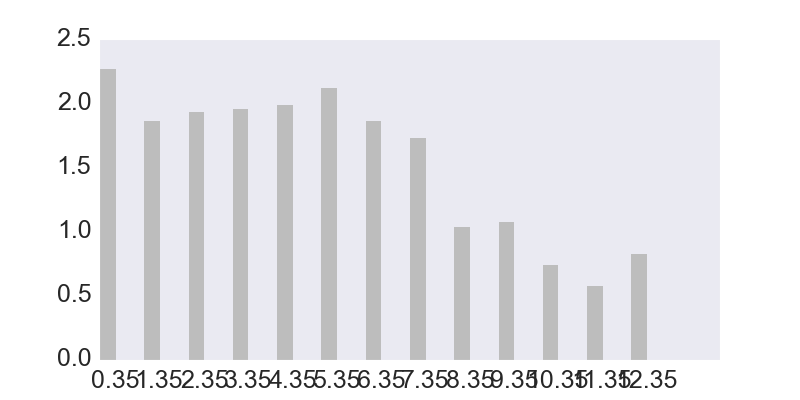
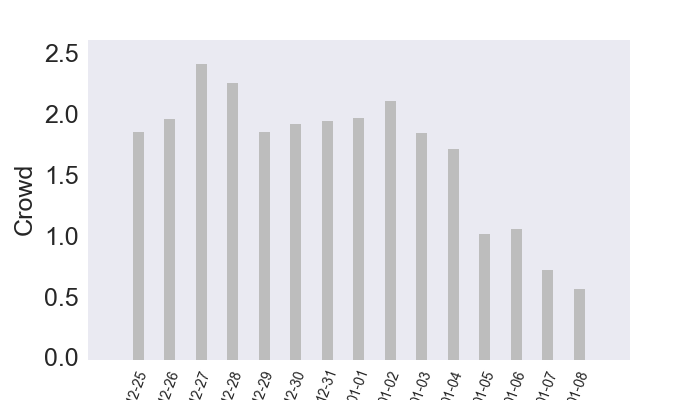
making things prettier

Changed region(s): [[0.0, 0.15, 0.84, 1.0], [0.18, 0.3, 0.21, 0.9], [0.06, 0.06, 0.12, 0.18]]

diff --git a/my_app/templates/index.html b/my_app/templates/index.html
@@ -31,7 +31,7 @@
   <div class="masthead clearfix">
     <div class="inner">
       <nav>
-        <ul class="nav masthead-nav">
+        <ul class="nav masthead-nav" id="links">
           <li>
             <a href="http://www.linkedin.com/in/berkeleyalmandhunter">
               <i class="fa fa-linkedin fa-2x wow bounceIn"></i>
@@ -60,10 +60,12 @@
     <div class="col-lg-12">
       <p id="the-cheese" class="lead">Ski in Solitude</p>
       <p id="slogan">Helping you find the slope less travelled</p>
+    </div>
 
 
+    <div class="col-lg-12" id="form_row">
       <form method="get" action="/output" class='form-inline' name="input">
-        <label for="date-picker-2" class="control-label">Date:</label>
+        <label for="date-picker-2" class="control-label" id="date-label">Date:</label>
         <div class="form-group" width=50%>
           <div class="input-group">
             <input id="date-picker-2" name='date-picker-2' type="text" class="date-picker form-control" placeholder="MM/DD/YYYY">
@@ -95,30 +97,28 @@
           <br>
           <button id="search_but" type="submit" onclick="parent.location='/output'" class="btn btn-theme">Search</button>
         </div>
-
       </form>
-
-
-    </div>
-
-    <div class="mastfoot" id="credit_parent">
-      <div class="inner" id="credit">
-        <p>Application developed by <a href="http://www.berkeleyalmandhunter.com/">Berkeley Almand-Hunter</a></p>
-      </div>
     </div>
 
 
-    <!-- Bootstrap core JavaScript
-    ================================================== -->
-    <!-- Placed at the end of the document so the pages load faster -->
-    <script src="https://ajax.googleapis.com/ajax/libs/jquery/1.11.3/jquery.min.js"></script>
-    <script src="/static/js/bootstrap.min.js"></script>
-    <!-- IE10 viewport hack for Surface/desktop Windows 8 bug -->
-    <script src="/static/js/ie10-viewport-bug-workaround.js "></script>
-    <!-- datepicker js -->
-    <script src="//cdnjs.cloudflare.com/ajax/libs/bootstrap-datepicker/1.3.0/js/bootstrap-datepicker.min.js"></script>
+  <div class="mastfoot" id="credit_parent">
+    <div class="inner" id="credit">
+      <p>Application developed by <a href="http://www.berkeleyalmandhunter.com/">Berkeley Almand-Hunter</a></p>
+    </div>
+  </div>
 
-    <script src="/static/js/custom.js" language="javascript"></script>
 
-  </body>
-  </html>
+  <!-- Bootstrap core JavaScript
+  ================================================== -->
+  <!-- Placed at the end of the document so the pages load faster -->
+  <script src="https://ajax.googleapis.com/ajax/libs/jquery/1.11.3/jquery.min.js"></script>
+  <script src="/static/js/bootstrap.min.js"></script>
+  <!-- IE10 viewport hack for Surface/desktop Windows 8 bug -->
+  <script src="/static/js/ie10-viewport-bug-workaround.js "></script>
+  <!-- datepicker js -->
+  <script src="//cdnjs.cloudflare.com/ajax/libs/bootstrap-datepicker/1.3.0/js/bootstrap-datepicker.min.js"></script>
+
+  <script src="/static/js/custom.js" language="javascript"></script>
+
+</body>
+</html>

diff --git a/my_app/templates/output.html b/my_app/templates/output.html
@@ -31,7 +31,7 @@
   <div class="masthead clearfix">
     <div class="inner">
       <nav>
-        <ul class="nav masthead-nav">
+        <ul class="nav masthead-nav" id="links">
           <li>
             <a href="http://www.linkedin.com/in/berkeleyalmandhunter">
               <i class="fa fa-linkedin fa-2x wow bounceIn"></i>
@@ -60,8 +60,12 @@
     <div class="col-lg-12">
       <p id="the-cheese" class="lead">Ski in Solitude</p>
       <p id="slogan">Helping you find the slope less travelled</p>
+    </div>
+
+
+    <div class="col-lg-12" id="form_row">
       <form method="get" action="/output" class='form-inline' name="input">
-        <label for="date-picker-2" class="control-label">Date:</label>
+        <label for="date-picker-2" class="control-label" id="date-label">Date:</label>
         <div class="form-group" width=50%>
           <div class="input-group">
             <input id="date-picker-2" name='date-picker-2' type="text" class="date-picker form-control" placeholder="MM/DD/YYYY">
@@ -95,8 +99,9 @@
         </div>
       </form>
     </div>
-    <p>  </p>
-    <div id="bar_graph">
+
+
+    <div class="col-lg-12" id="bar_graph">
       <img src="/static/temp/fig1.png">
     </div>
 

diff --git a/my_app/static/css/cover.css b/my_app/static/css/cover.css
@@ -22,19 +22,30 @@ a:hover {
 
 #bar_graph {
   margin-right: 200px;
-  margin-left: 80px;
+  margin-left: 60px;
   border-top: 200px;
+}
+
+
+
+#date-label{
+  margin-left: 35px;
 }
 
 #search_but {
   background-color: #cc0000;
+  margin-bottom: 18px;
+}
+
+#links {
+  margin-right: 0px;
 }
 
 #the-cheese {
   font-size: 60px;
   margin-bottom: 5px;
   margin-top: 5px;
-  margin-left: 50px;
+  margin-left: 110px;
   text-align: left;
   font-weight: 500;
   color: white;
@@ -47,7 +58,7 @@ a:hover {
   font-weight: 200;
   color: #cccccc;
   text-align: left;
-  margin-left: 30px;
+  margin-left: 87px;
 }
 /*
  * Base structure
@@ -68,6 +79,11 @@ a:hover {
 
 #credit_parent {
   text-align: left;
+  margin-left: 100px;
+}
+
+#form_row{
+  margin-bottom: 50px;
 }
 
 #credit {

diff --git a/my_app/views.py b/my_app/views.py
@@ -72,7 +72,8 @@ def output():
         dates.append(date2 + pd.Timedelta(days=2))
         dates.append(date2 + pd.Timedelta(days=3))
     elif time1 == '9':
-        dates = [date2 - pd.Timedelta(days=6)]
+        dates = [date2 - pd.Timedelta(days=7)]
+        dates.append(date2 - pd.Timedelta(days=6))
         dates.append(date2 - pd.Timedelta(days=5))
         dates.append(date2 - pd.Timedelta(days=4))
         dates.append(date2 - pd.Timedelta(days=3))
@@ -80,7 +81,8 @@ def output():
         dates.append(date2 - pd.Timedelta(days=1))
         dates.append(date2)
     elif time1 == '10':
-        dates = [date2 - pd.Timedelta(days=6)]
+        dates = [date2 - pd.Timedelta(days=7)]
+        dates.append(date2 - pd.Timedelta(days=6))
         dates.append(date2 - pd.Timedelta(days=5))
         dates.append(date2 - pd.Timedelta(days=4))
         dates.append(date2 - pd.Timedelta(days=3))
@@ -93,6 +95,8 @@ def output():
         dates.append(date2 + pd.Timedelta(days=4))
         dates.append(date2 + pd.Timedelta(days=5))
         dates.append(date2 + pd.Timedelta(days=6))
+        dates.append(date2 + pd.Timedelta(days=7))
+
     elif time1 == '11':
         dates = [date2]
         dates.append(date2 + pd.Timedelta(days=1))
@@ -101,6 +105,7 @@ def output():
         dates.append(date2 + pd.Timedelta(days=4))
         dates.append(date2 + pd.Timedelta(days=5))
         dates.append(date2 + pd.Timedelta(days=6))
+        dates.append(date2 + pd.Timedelta(days=7))
 
     #import the data
     df = pd.DataFrame.from_csv('df_all_features.csv')
@@ -110,7 +115,11 @@ def output():
     feat = df.loc[dates]
     crowd = mdl.predict(feat)
 
-    pic1 = make_bar_chart(crowd, 'Crowd', dates)
+    date_plot = []
+    for i in range(0,len(dates)):
+        date_plot.append(str(dates[i])[5:10])
+
+    pic1 = make_bar_chart(crowd, 'Crowd', date_plot)
     return render_template("output.html", date2=dates, time1=dates, pic1=pic1)
 
 

diff --git a/my_app/plots.py b/my_app/plots.py
@@ -99,18 +99,21 @@ def make_bar_chart(crowd, y_label, dates):
     ind = np.arange(N)  # the x locations for the groups
     width = 0.35      # the width of the bars
 
-    fig, ax = plt.subplots(figsize=(8, 4), facecolor='white', frameon=False)
+    fig, ax = plt.subplots(figsize=(7, 4), facecolor='white', frameon=False)
     #plt.box(on='off')
     rects1 = ax.bar(ind, crowd, width, color='#bdbdbd', edgecolor = "none")
 
     # add some text for labels, title and axes ticks
-    #ax.set_ylabel(y_label, size = label_size)
+    ax.set_ylabel(y_label, size = 18)
+    ax.set_xlabel("Date", size = 18)
     ax.set_title(' ')
-    ax.set_xticks(ind + width)
+    ax.set_xticks(ind + width/2)
+    ax.margins(0.1,0)
+    tick_labels = dates
+    plt.xticks(rotation=70)
+    ax.set_xticklabels(tick_labels, size = 10)
     ax.grid(False)
-    #plt.ylim([0,1.5])
-    #make the border lines lighter
-    [i.set_linewidth(0.1) for i in ax.spines.itervalues()]
+    plt.ylim([0,max(crowd)+ 0.2])
 
     plt.savefig('my_app/static/temp/fig1.png')
     plt.close()
